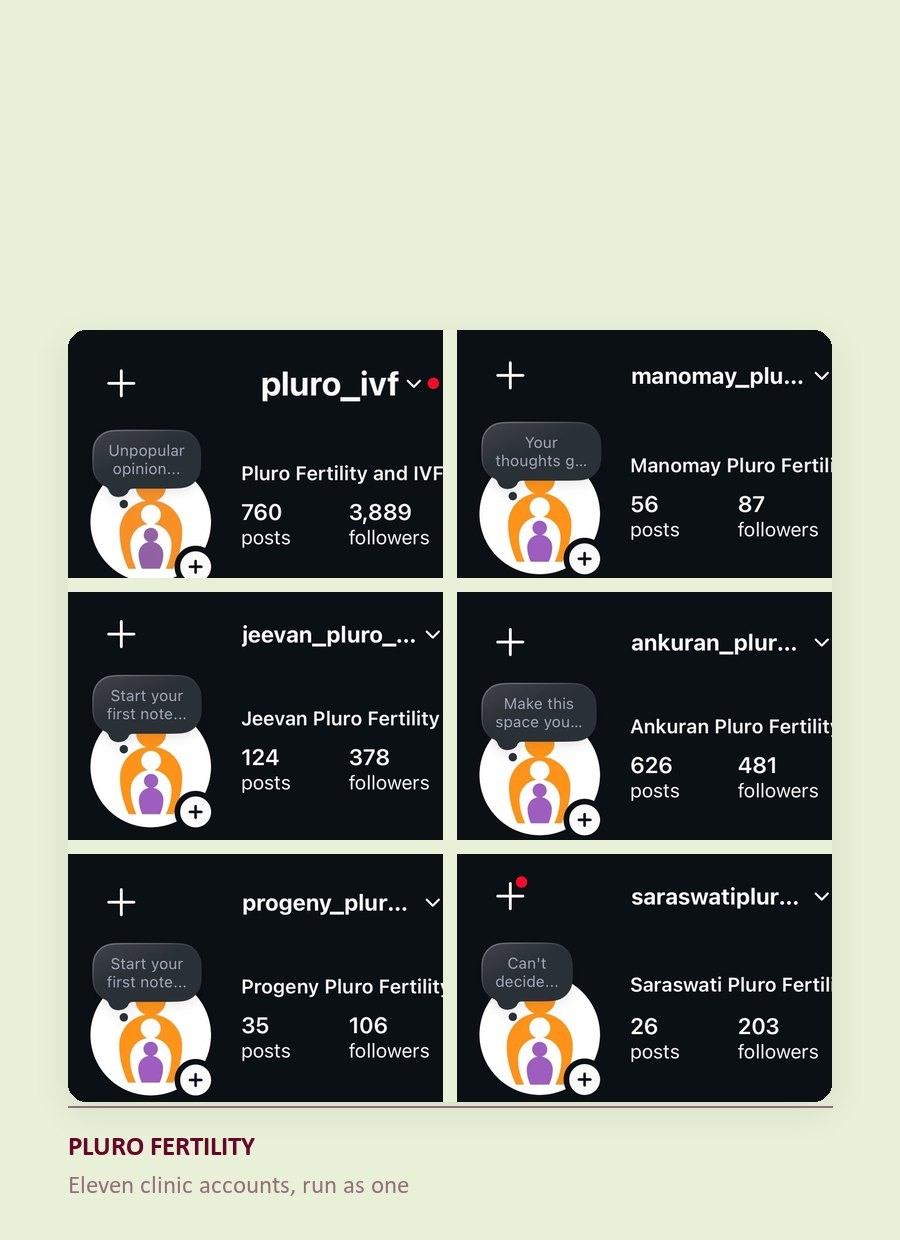
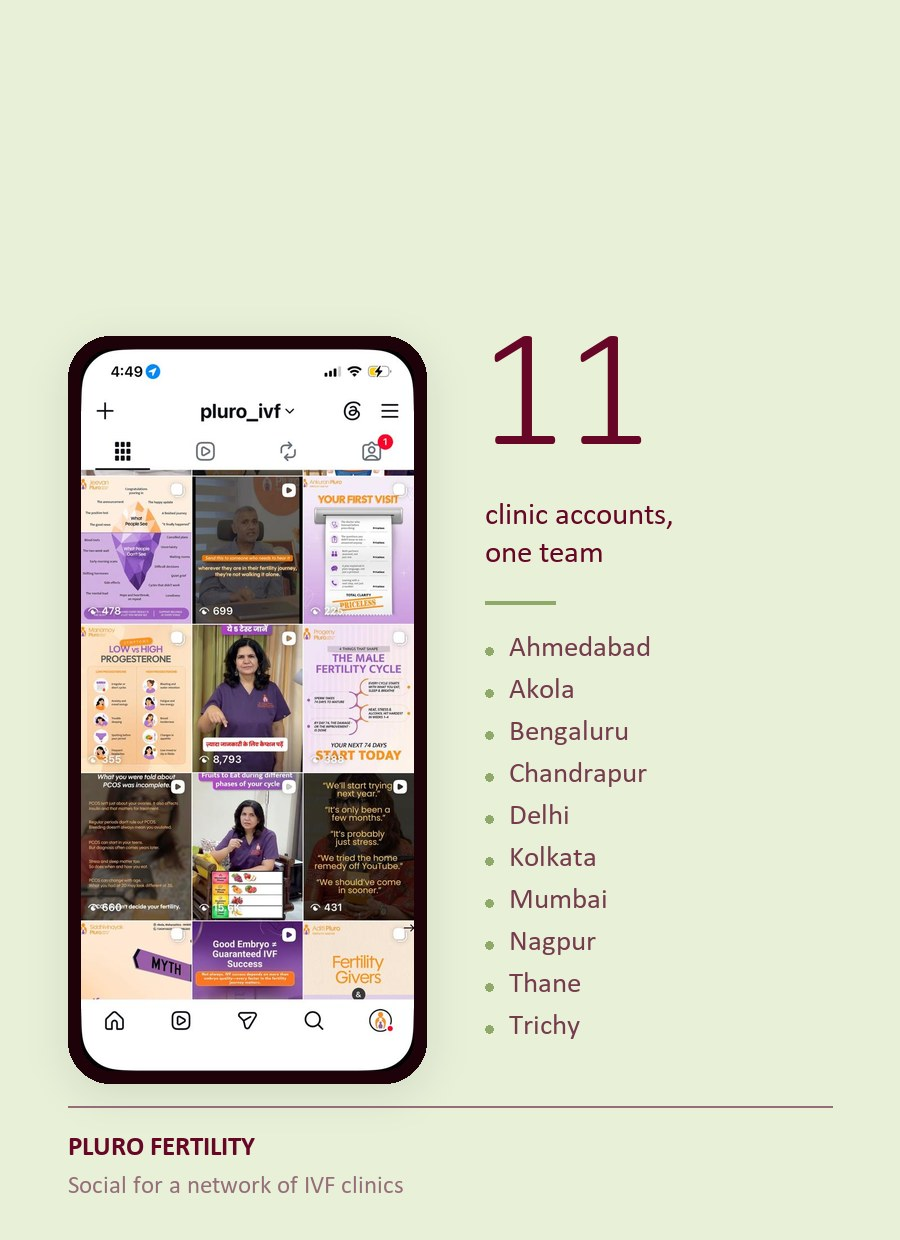
Trim the work section to five, redesign Pluro, and make the laptop photo the only hero image
Work section

UAL and Pride Month are removed, leaving five cards. Five split three and two,
so the columns cannot end level; the right column now drops by exactly half a
card, which makes the stagger symmetric (it starts half a card lower and the
left ends half a card lower). The offset is expressed from the column's own
width, since a grid item's percentage margin resolves against its grid area, so
it holds at any size: 313px each way at 1280, 512 at 1920. Single-column
layouts keep their even spacing. On a phone the order is Pluro, Amaha, Humans of
Bombay, Myntmore, then The Kahani Tree, which has no samples yet.

The Pluro tile was a contact sheet of ten dark screenshots and the busiest thing
in the grid. It is now one phone showing the brand account beside a large 11 and
the ten cities the clinics sit in. Its hover is the World IVF Day campaign,
captioned in Bengali, Hindi and Marathi for each clinic's region.

New copy on every card, a bold line for what the work was and a light one for
what it did. The claims come from the material: "a sample newsletter that won a
client" is from Sneha's recommendation, and 79K likes is the Humans of Bombay
post's own count.

The section is cream and so were two of the tiles, which gave those cards no
edge at all. Every tile now carries a hairline and a soft lift, and Pride's
ground moved to matcha before it was removed.

The Myntmore card links to the Drive folder of samples.

Hero
[…]

diff --git a/index.html b/index.html
@@ -17,7 +17,7 @@
       property="og:description"
       content="5+ years across social media, content, brand strategy, client servicing, publishing and research."
     />
-    <meta property="og:image" content="/front.jpg" />
+    <meta property="og:image" content="/back.jpg" />
 
     <link rel="preconnect" href="https://fonts.googleapis.com" />
     <link rel="preconnect" href="https://fonts.gstatic.com" crossorigin />
@@ -29,7 +29,7 @@
     />
 
     <!-- crossorigin matches three.js TextureLoader, which requests anonymously -->
-    <link rel="preload" as="image" href="/front.jpg" crossorigin="anonymous" />
+    <link rel="preload" as="image" href="/hero-base.jpg" crossorigin="anonymous" />
     <link rel="preload" as="image" href="/back.jpg" crossorigin="anonymous" />
   </head>
 
@@ -197,7 +197,7 @@
             <!-- 1 -->
             <div class="work-card work-reveal" data-reveal="left" data-desktop-url="https://www.instagram.com/pluro_ivf/" data-mobile-url="https://www.instagram.com/pluro_ivf/">
               <div class="work-card-media">
-                <picture><img src="/case-study-1.jpg" alt="Django: social accounts for eleven Pluro fertility clinics" loading="lazy" decoding="async" /></picture>
+                <picture><img src="/case-study-1.jpg" alt="Pluro Fertility: social media for a network of eleven IVF clinic accounts" loading="lazy" decoding="async" /></picture>
                 <div class="work-card-hover" aria-hidden="true">
                   <img src="/case-study-1-hover.jpg" alt="" class="work-card-hover-image" loading="lazy" decoding="async" />
                   <span class="work-card-hover-arrow is-white">
@@ -206,90 +206,19 @@
                 </div>
                 <div class="work-card-text swap-black-white">
                   <div class="work-card-text-layer work-card-text-base">
-                    <span class="work-card-text-line"><strong>Running accounts</strong> that</span>
-                    <span class="work-card-text-line">actually ship on time</span>
+                    <span class="work-card-text-line"><strong>Eleven clinics,</strong></span>
+                    <span class="work-card-text-line">one steady voice</span>
                   </div>
                   <div class="work-card-text-layer work-card-text-hover">
-                    <span class="work-card-text-line"><strong>Running accounts</strong> that</span>
-                    <span class="work-card-text-line">actually ship on time</span>
+                    <span class="work-card-text-line"><strong>Eleven clinics,</strong></span>
+                    <span class="work-card-text-line">one steady voice</span>
                   </div>
                 </div>
               </div>
             </div>
 
-            <!-- 3 -->
-            <div class="work-card work-reveal" data-reveal="left" data-desktop-url="#" data-mobile-url="#">
-              <div class="work-card-media">
-                <picture><img src="/case-study-3.jpg" alt="LGBTQI+ Month campaign" loading="lazy" decoding="async" /></picture>
-                <div class="work-card-hover" aria-hidden="true">
-                  <img src="/case-study-3-hover.jpg" alt="" class="work-card-hover-image" loading="lazy" decoding="async" />
-                  <span class="work-card-hover-arrow">
-                    <svg viewBox="0 0 24 24" aria-hidden="true"><path d="M5 12h14M13 5l7 7-7 7" fill="none" stroke="currentColor" stroke-linecap="round" stroke-linejoin="round" stroke-width="2" /></svg>
-                  </span>
-                </div>
-                <div class="work-card-text swap-black-white">
-                  <div class="work-card-text-layer work-card-text-base">
-                    <span class="work-card-text-line"><strong>Building space</strong> for</span>
-                    <span class="work-card-text-line">queer voices on social</span>
-                  </div>
-                  <div class="work-card-text-layer work-card-text-hover">
-                    <span class="work-card-text-line"><strong>Building space</strong> for</span>
-                    <span class="work-card-text-line">queer voices on social</span>
-                  </div>
-                </div>
-              </div>
-            </div>
-
-            <!-- 5 -->
-            <div class="work-card work-reveal" data-reveal="left" data-desktop-url="https://www.instagram.com/p/CNxGabwBlWC/" data-mobile-url="https://www.instagram.com/p/CNxGabwBlWC/">
-              <div class="work-card-media">
-                <picture><img src="/case-study-5.jpg" alt="Humans of Bombay: a published first-person story" loading="lazy" decoding="async" /></picture>
-                <div class="work-card-hover" aria-hidden="true">
-                  <img src="/case-study-5-hover.jpg" alt="" class="work-card-hover-image" loading="lazy" decoding="async" />
-                  <span class="work-card-hover-arrow is-white">
-                    <svg viewBox="0 0 24 24" aria-hidden="true"><path d="M5 12h14M13 5l7 7-7 7" fill="none" stroke="currentColor" stroke-linecap="round" stroke-linejoin="round" stroke-width="2" /></svg>
-                  </span>
-                </div>
-                <div class="work-card-text swap-black-white">
-                  <div class="work-card-text-layer work-card-text-base">
-                    <span class="work-card-text-line"><strong>Turning conversations</strong></span>
-                    <span class="work-card-text-line">into published stories</span>
-                  </div>
-                  <div class="work-card-text-layer work-card-text-hover">
-                    <span class="work-card-text-line"><strong>Turning conversations</strong></span>
-                    <span class="work-card-text-line">into published stories</span>
-                  </div>
-                </div>
-              </div>
-            </div>
-
-            <!-- 7 -->
-            <div class="work-card work-reveal" data-reveal="left" data-desktop-url="#" data-mobile-url="#">
-              <div class="work-card-media">
-                <picture><img src="/case-study-7.jpg" alt="University of the Arts London: Knowledge Exchange research" loading="lazy" decoding="async" /></picture>
-                <div class="work-card-hover" aria-hidden="true">
-                  <img src="/case-study-7-hover.jpg" alt="" class="work-card-hover-image" loading="lazy" decoding="async" />
-                  <span class="work-card-hover-arrow">
-                    <svg viewBox="0 0 24 24" aria-hidden="true"><path d="M5 12h14M13 5l7 7-7 7" fill="none" stroke="currentColor" stroke-linecap="round" stroke-linejoin="round" stroke-width="2" /></svg>
-                  </span>
-                </div>
-                <div class="work-card-text swap-black-white">
-                  <div class="work-card-text-layer work-card-text-base">
-                    <span class="work-card-text-line"><strong>Turning interviews</strong></span>
-                    <span class="work-card-text-line">into funding decisions</span>
-                  </div>
-                  <div class="work-card-text-layer work-card-text-hover">
-                    <span class="work-card-text-line"><strong>Turning interviews</strong></span>
-                    <span class="work-card-text-line">into funding decisions</span>
-                  </div>
-                </div>
-              </div>
-            </div>
-          </div>
-
-          <div class="work-col work-col-right">
             <!-- 2 -->
-            <div class="work-card work-reveal" data-reveal="right" data-desktop-url="https://www.instagram.com/amaha.health/" data-mobile-url="https://www.instagram.com/amaha.health/">
+            <div class="work-card work-reveal" data-reveal="left" data-desktop-url="https://www.instagram.com/amaha.health/" data-mobile-url="https://www.instagram.com/amaha.health/">
               <div class="work-card-media">
                 <picture><img src="/case-study-2.jpg" alt="Amaha: mental health social media" loading="lazy" decoding="async" /></picture>
                 <div class="work-card-hover" aria-hidden="true">
@@ -300,21 +229,46 @@
                 </div>
                 <div class="work-card-text swap-white-black">
                   <div class="work-card-text-layer work-card-text-base">
-                    <span class="work-card-text-line"><strong>Making mental health</strong></span>
-                    <span class="work-card-text-line">feel less alone online</span>
+                    <span class="work-card-text-line"><strong>Normalising help,</strong></span>
+                    <span class="work-card-text-line">one post at a time</span>
                   </div>
                   <div class="work-card-text-layer work-card-text-hover">
-                    <span class="work-card-text-line"><strong>Making mental health</strong></span>
-                    <span class="work-card-text-line">feel less alone online</span>
+                    <span class="work-card-text-line"><strong>Normalising help,</strong></span>
+                    <span class="work-card-text-line">one post at a time</span>
                   </div>
                 </div>
               </div>
             </div>
 
-            <!-- 4 -->
-            <div class="work-card work-reveal" data-reveal="right" data-desktop-url="#" data-mobile-url="#">
+            <!-- 5 -->
+            <div class="work-card work-reveal" data-reveal="left" data-desktop-url="https://www.instagram.com/p/CNxGabwBlWC/" data-mobile-url="https://www.instagram.com/p/CNxGabwBlWC/">
               <div class="work-card-media">
-                <picture><img src="/case-study-4.jpg" alt="Myntmore: ghostwritten LinkedIn posts and newsletters" loading="lazy" decoding="async" /></picture>
+                <picture><img src="/case-study-5.jpg" alt="Humans of Bombay: a published first person story" loading="lazy" decoding="async" /></picture>
+                <div class="work-card-hover" aria-hidden="true">
+                  <img src="/case-study-5-hover.jpg" alt="" class="work-card-hover-image" loading="lazy" decoding="async" />
+                  <span class="work-card-hover-arrow is-white">
+                    <svg viewBox="0 0 24 24" aria-hidden="true"><path d="M5 12h14M13 5l7 7-7 7" fill="none" stroke="currentColor" stroke-linecap="round" stroke-linejoin="round" stroke-width="2" /></svg>
+                  </span>
+                </div>
+                <div class="work-card-text swap-black-white">
+                  <div class="work-card-text-layer work-card-text-base">
+                    <span class="work-card-text-line"><strong>Her story,</strong></span>
+                    <span class="work-card-text-line">in her own words</span>
+                  </div>
+                  <div class="work-card-text-layer work-card-text-hover">
+                    <span class="work-card-text-line"><strong>Her story,</strong></span>
+                    <span class="work-card-text-line">in her own words</span>
+                  </div>
+                </div>
+              </div>
+            </div>
+          </div>
+
+          <div class="work-col work-col-right">
+            <!-- 4 -->
+            <div class="work-card work-reveal" data-reveal="right" data-desktop-url="https://drive.google.com/drive/folders/1-XBLct0rrQobjdCZJGHIgy1qbCicd8_2" data-mobile-url="https://drive.google.com/drive/folders/1-XBLct0rrQobjdCZJGHIgy1qbCicd8_2">
+              <div class="work-card-media">
+                <picture><img src="/case-study-4.jpg" alt="Myntmore: LinkedIn posts and newsletters ghostwritten for founders" loading="lazy" decoding="async" /></picture>
                 <div class="work-card-hover" aria-hidden="true">
                   <img src="/case-study-4-hover.jpg" alt="" class="work-card-hover-image" loading="lazy" decoding="async" />
                   <span class="work-card-hover-arrow">
@@ -323,12 +277,12 @@
                 </div>
                 <div class="work-card-text swap-white-black">
                   <div class="work-card-text-layer work-card-text-base">
-                    <span class="work-card-text-line"><strong>Writing in someone</strong></span>
-                    <span class="work-card-text-line">else's voice, convincingly</span>
+                    <span class="work-card-text-line"><strong>Founder voices,</strong></span>
+                    <span class="work-card-text-line">ghostwritten</span>
                   </div>
                   <div class="work-card-text-layer work-card-text-hover">
-                    <span class="work-card-text-line"><strong>Writing in someone</strong></span>
-                    <span class="work-card-text-line">else's voice, convincingly</span>
+                    <span class="work-card-text-line"><strong>Founder voices,</strong></span>
+                    <span class="work-card-text-line">ghostwritten</span>
                   </div>
                 </div>
               </div>
@@ -337,7 +291,7 @@
             <!-- 6 -->
             <div class="work-card work-reveal" data-reveal="right" data-desktop-url="#" data-mobile-url="#">
               <div class="work-card-media">
-                <picture><img src="/case-study-6.jpg" alt="Children's bookstore and school book fairs" loading="lazy" decoding="async" /></picture>
+                <picture><img src="/case-study-6.jpg" alt="The Kahani Tree: a children's bookshop and school book fairs" loading="lazy" decoding="async" /></picture>
                 <div class="work-card-hover" aria-hidden="true">
                   <img src="/case-study-6-hover.jpg" alt="" class="work-card-hover-image" loading="lazy" decoding="async" />
                   <span class="work-card-hover-arrow is-white">
@@ -346,12 +300,12 @@
                 </div>
                 <div class="work-card-text swap-white-black">
                   <div class="work-card-text-layer work-card-text-base">
-                    <span class="work-card-text-line"><strong>Putting the right book</strong></span>
-                    <span class="work-card-text-line">in the right hands</span>
+                    <span class="work-card-text-line"><strong>The right book</strong></span>
+                    <span class="work-card-text-line">in small hands</span>
                   </div>
                   <div class="work-card-text-layer work-card-text-hover">
-                    <span class="work-card-text-line"><strong>Putting the right book</strong></span>
-                    <span class="work-card-text-line">in the right hands</span>
+                    <span class="work-card-text-line"><strong>The right book</strong></span>
+                    <span class="work-card-text-line">in small hands</span>
                   </div>
                 </div>
               </div>

diff --git a/src/hero/index.ts b/src/hero/index.ts
@@ -132,11 +132,8 @@ function createRenderTargets(pixelWidth: number, pixelHeight: number) {
   trailB = makeRT(w, h);
 }
 
-/*
- * Where her eyes sit in the source frame, measured down from the top. Both hero
- * photographs put her at very nearly the same height.
- */
-const FACE_V = 0.30;
+/* Where her eyes sit in the laptop photograph, measured down from the top. */
+const FACE_V = 0.33;
 
 /*
  * Cover-fit on a portrait viewport matches the image's height, so the whole
@@ -224,7 +221,11 @@ function resize() {
      * instead, which pushed her face up off the screen and filled the hero with
      * her lap.
      */
-    compositeMaterial.uniforms.uPan.value.set(0.19, 0.5 - 0.5 / zoom);
+    /*
+     * 0.10 across rather than 0.19: in this photograph her face is at 66% and the
+     * laptop runs from 40 to 62, so the window centres at 60% to keep both.
+     */
+    compositeMaterial.uniforms.uPan.value.set(0.1, 0.5 - 0.5 / zoom);
   } else if (width <= 1200) {
     compositeMaterial.uniforms.uZoom.value = 1;
     compositeMaterial.uniforms.uPan.value.set(0.11, 0);
@@ -289,7 +290,8 @@ function showStaticHeroFallback() {
   running = false;
   if (!canvas) return;
   const img = document.createElement('img');
-  img.src = '/front.jpg';
+  // Full colour here: with no brush to reveal it, the duotone would be all anyone saw.
+  img.src = '/back.jpg';
   img.alt = '';
   img.className = 'hero-static-fallback';
   canvas.replaceWith(img);
@@ -471,7 +473,13 @@ export async function initHero() {
 
   let texA: Texture, texB: Texture;
   try {
-    [texA, texB] = await Promise.all([load('/front.jpg'), load('/back.jpg')]);
+    /*
+     * One photograph, two treatments. The base is the laptop photo mapped to a
+     * muted cherry duotone; the brush and the standing reveal uncover the same
+     * frame in full colour, so what moves is the colour coming through rather
+     * than a second picture.
+     */
+    [texA, texB] = await Promise.all([load('/hero-base.jpg'), load('/back.jpg')]);
   } catch {
     showStaticHeroFallback();
     hideLoader(loading);

diff --git a/src/styles/sections.css b/src/styles/sections.css
@@ -65,8 +65,18 @@
   margin-top: clamp(-5.5rem, -5.5vw, -3.25rem);
 }
 
+/*
+ * Five cards split three and two, so the columns cannot end level. Dropping the
+ * right column by exactly half a card makes the stagger symmetric instead: it
+ * starts half a card lower and the left ends half a card lower, which reads as
+ * a deliberate masonry rather than one column running out early.
+ *
+ * Half a card is the card's height (its width x 1240/900) plus half the row gap,
+ * then less the left column's own negative lift. A grid item's percentage
+ * margin resolves against its grid area, so 100% here is the card's width.
+ */
 .work-col-right {
-  margin-top: clamp(3rem, 5.5vw, 5.5rem);
+  margin-top: calc(100% * 0.6889 + clamp(1rem, 2.5vw, 2rem) + clamp(-5.5rem, -5.5vw, -3.25rem));
 }
 
 .work-col .work-card:first-child {
@@ -82,6 +92,15 @@
   position: relative;
   overflow: hidden;
   border-radius: var(--ui-radius);
+  /*
+   * The section is cream and so are some of the tiles, which left those cards
+   * with no edge at all: the headline and artwork floated on the page instead
+   * of reading as a card. A hairline and a soft lift give every tile the same
+   * boundary, whatever its ground.
+   */
+  box-shadow:
+    0 0 0 1px rgba(103, 6, 38, 0.08),
+    0 18px 40px -24px rgba(30, 2, 9, 0.45);
 }
 
 .work-card img {
